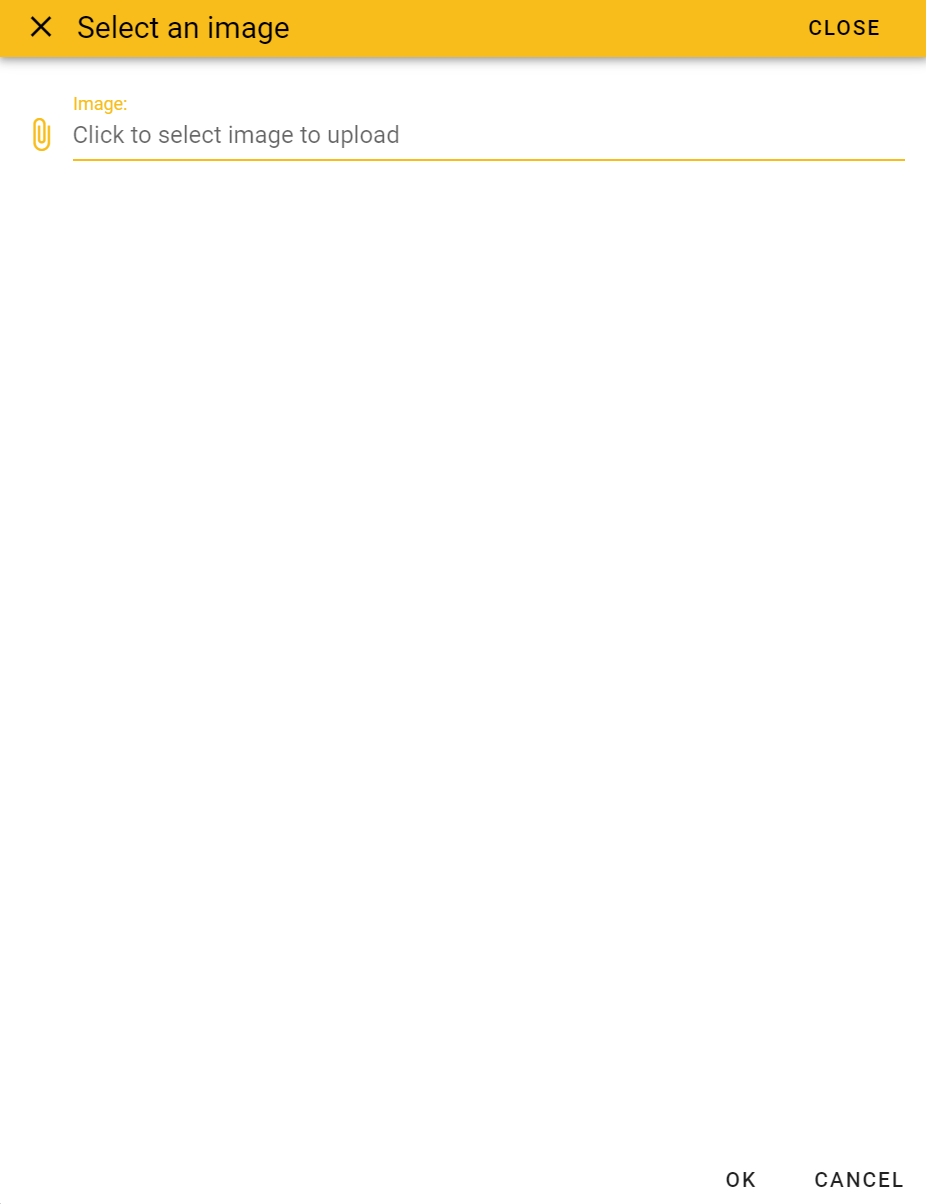
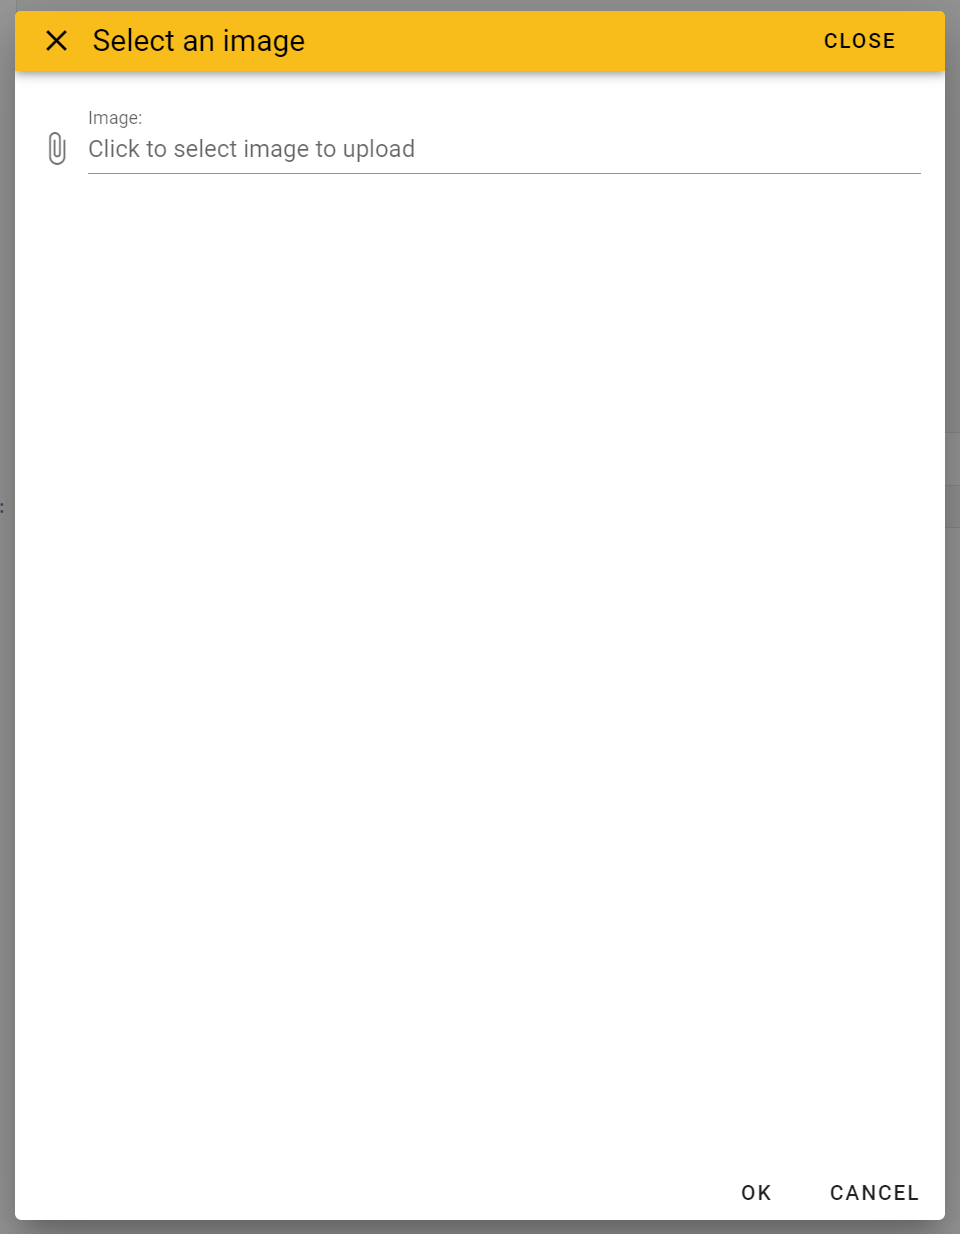
UploadJson docs

Changed region(s): [[0.0, 0.0, 1.0, 1.0]]

diff --git a/src/vois/vuetify/UploadJson.py b/src/vois/vuetify/UploadJson.py
@@ -44,6 +44,79 @@ def label(text, class_='pa-0 ma-0 mt-1 mr-3', size=14, weight=400, color=setting
 # Upload local json file: dialog box to select and previw of some fields
 #####################################################################################################################################################
 class UploadJson():
+    """
+    Upload local json file: dialog box to select and preview of some fields. Widget that simplifies the selection of a json from the local computer to be uploaded in the cloud. It features the preview of one or more field of the json into a modal dialog-box.
+
+    Parameters
+    ----------
+    output : ipywidgets.Output
+        Output widget on which the widget has to be displayed
+    message : str, optional
+        Message to display in the upload widget to guide the user (default is 'Click to select the file to upload').
+    label : str, optional
+        Placeholder label displayed on top of the upload widget (default is 'File json:').
+    accept : str, optional
+        List of mime types accepted for the selection (default is 'application/json').
+    title : str, optional
+        Title of the modal dialog-box (default is 'Select a file').
+    required_attributes : list of str, optional
+        List of attribute names to check in selected json file and to display in the preview (default is [])
+    attributes_width : int, optional
+        Width in pixel of the space to display the required attributes names (default is 100)
+    color : str, optional
+        Main color of the widgets (default is settings.color_first).
+    dark : bool, optional
+        Dark flag (default is settings.dark_mode).
+    titleheight : int, optional
+        Height in pixels of the title bar of the modal dialog-box (default is 40)
+    width : int, optional
+        Width in pixels of the modal dialog-box (default is 800)
+    height : int, optional
+        height in pixels of the preview area of the modal dialog-box (default is 200)
+    onOK : function, optional
+        Python function to call when the user clicks on the OK button. The function will receive as parameter the json dictionary read from the selected file.
+    onCancel : function, optional
+        Python function to call when the user clicks on the CANCEL button. The function will receive no parameters.
+    
+    Example
+    -------
+    Display of a dialog-box to enable the user to select a json file from its local machine::
+        
+        from vois.vuetify import UploadJson
+        from ipywidgets import widgets, Layout
+        from IPython.display import display
+        import ipyvuetify as v
+
+        output = widgets.Output(layout=Layout(width='0px', height='0px'))
+        display(output)
+
+        debug = widgets.Output()
+
+        def onSelectedJson(jsonitem):
+            debug.clear_output()
+            with debug:
+                display(jsonitem)
+
+        u = UploadJson.UploadJson(output,
+                                  onOK=onSelectedJson,
+                                  required_attributes=['appname', 'title'],
+                                  attributes_width=80)
+        u.show()
+
+        display(debug)
+
+    .. figure:: figures/upload_json_1.png
+       :scale: 50 %
+       :alt: Upload json dialog widget
+
+       UploadImage dialog box before the selection of a json file
+       
+    .. figure:: figures/upload_json_2.png
+       :scale: 50 %
+       :alt: Upload dialog widget with a json file selected
+
+       UploadJson dialog box showing the preview of some fields of the selected json file
+    """
     
     # Initialization
     def __init__(self,
@@ -54,10 +127,11 @@ class UploadJson():
                  title='Select a file',
                  required_attributes=[],         # List of attribute names to check in selected json file and to display in the preview
                  attributes_width=100,           # width in pixel of the spavce to display the required attributes names
-                 color=settings.color_first,
-                 dark=settings.dark_mode,
+                 color=None,
+                 dark=None,
                  titleheight=40,
                  width=800,
+                 height=200,
                  onOK=None,                      # Called passing the content of the selected file
                  onCancel=None):                 # Called with no argument
         
@@ -65,20 +139,27 @@ class UploadJson():
         self.title               = title
         self.required_attributes = required_attributes
         self.attributes_width    = attributes_width
-        self.color               = color
-        self.dark                = dark
         self.titleheight         = titleheight
         self.width               = width
+        self.height              = height
         self.onOK                = onOK
         self.onCancel            = onCancel
         
+        self.color = color
+        if self.color is None:
+            self.color = settings.color_first
+            
+        self.dark = dark
+        if self.dark is None:
+            self.dark = settings.dark_mode
+            
         cssUtils.allSettings(self.output)
         
         self.json = None
         
         self.wait = None
         
-        self.preview = widgets.Output(layout=Layout(height='200px'))
+        self.preview = widgets.Output(layout=Layout(height='%dpx'%self.height))
         self.u = upload.upload(accept=accept, label=label, onchanging=self.onFileSelected, onchange=self.onFileUpload, placeholder=message, multiple=False, color=self.color)
 
         spacerY = v.Html(tag='div', style_='width: 0px; height: 20px;')
@@ -87,6 +168,9 @@ class UploadJson():
         
     # Open the dialog-box
     def show(self):
+        """
+        Opens the dialog-box.
+        """
         self.preview.clear_output()
         self.u.clear()
         self.dlg = dialogGeneric.dialogGeneric(title=self.title, on_ok=self._internal_onOK, on_cancel=self._internal_onCancel, on_close=self.onCancel,

diff --git a/src/vois/vuetify/UploadImage.py b/src/vois/vuetify/UploadImage.py
@@ -49,7 +49,7 @@ class UploadImage():
         List of mime types accepted for the selection (default is 'image/png, image/jpeg, image/bmp').
     title : str, optional
         Title of the modal dialog-box (default is 'Select an image').
-    color_first : str, optional
+    color : str, optional
         Main color of the widgets (default is settings.color_first).
     dark : bool, optional
         Dark flag (default is settings.dark_mode).
@@ -89,13 +89,13 @@ class UploadImage():
         display(debug)
 
     .. figure:: figures/upload_image_1.png
-       :scale: 60 %
+       :scale: 50 %
        :alt: Upload dialog widget
 
        UploadImage dialog box before the selection of an image
        
     .. figure:: figures/upload_image_2.png
-       :scale: 60 %
+       :scale: 50 %
        :alt: Upload dialog widget with an image selected
 
        UploadImage dialog box showing the preview of the selected image
@@ -108,8 +108,8 @@ class UploadImage():
                  label='Image:',
                  accept='image/png, image/jpeg, image/bmp',
                  title='Select an image',
-                 color=settings.color_first,
-                 dark=settings.dark_mode,
+                 color=None,
+                 dark=None,
                  titleheight=40,
                  width=620,
                  height=600,
@@ -118,13 +118,19 @@ class UploadImage():
         
         self.output       = output
         self.title        = title
-        self.color        = color
-        self.dark         = dark
         self.titleheight  = titleheight
         self.width        = width
         self.height       = height
         self.onOK         = onOK
         self.onCancel     = onCancel
+        
+        self.color = color
+        if self.color is None:
+            self.color = settings.color_first
+            
+        self.dark = dark
+        if self.dark is None:
+            self.dark = settings.dark_mode
         
         cssUtils.allSettings(self.output)
         
@@ -133,7 +139,7 @@ class UploadImage():
         
         self.wait = None
         
-        self.preview = widgets.Output(layout=Layout(height='%dpx')%self.height)
+        self.preview = widgets.Output(layout=Layout(height='%dpx'%self.height))
         self.u = upload.upload(accept=accept, label=label, onchanging=self.onFileSelected, onchange=self.onFileUpload, placeholder=message, multiple=False)
 
         spacerY = v.Html(tag='div', style_='width: 0px; height: 20px;')
